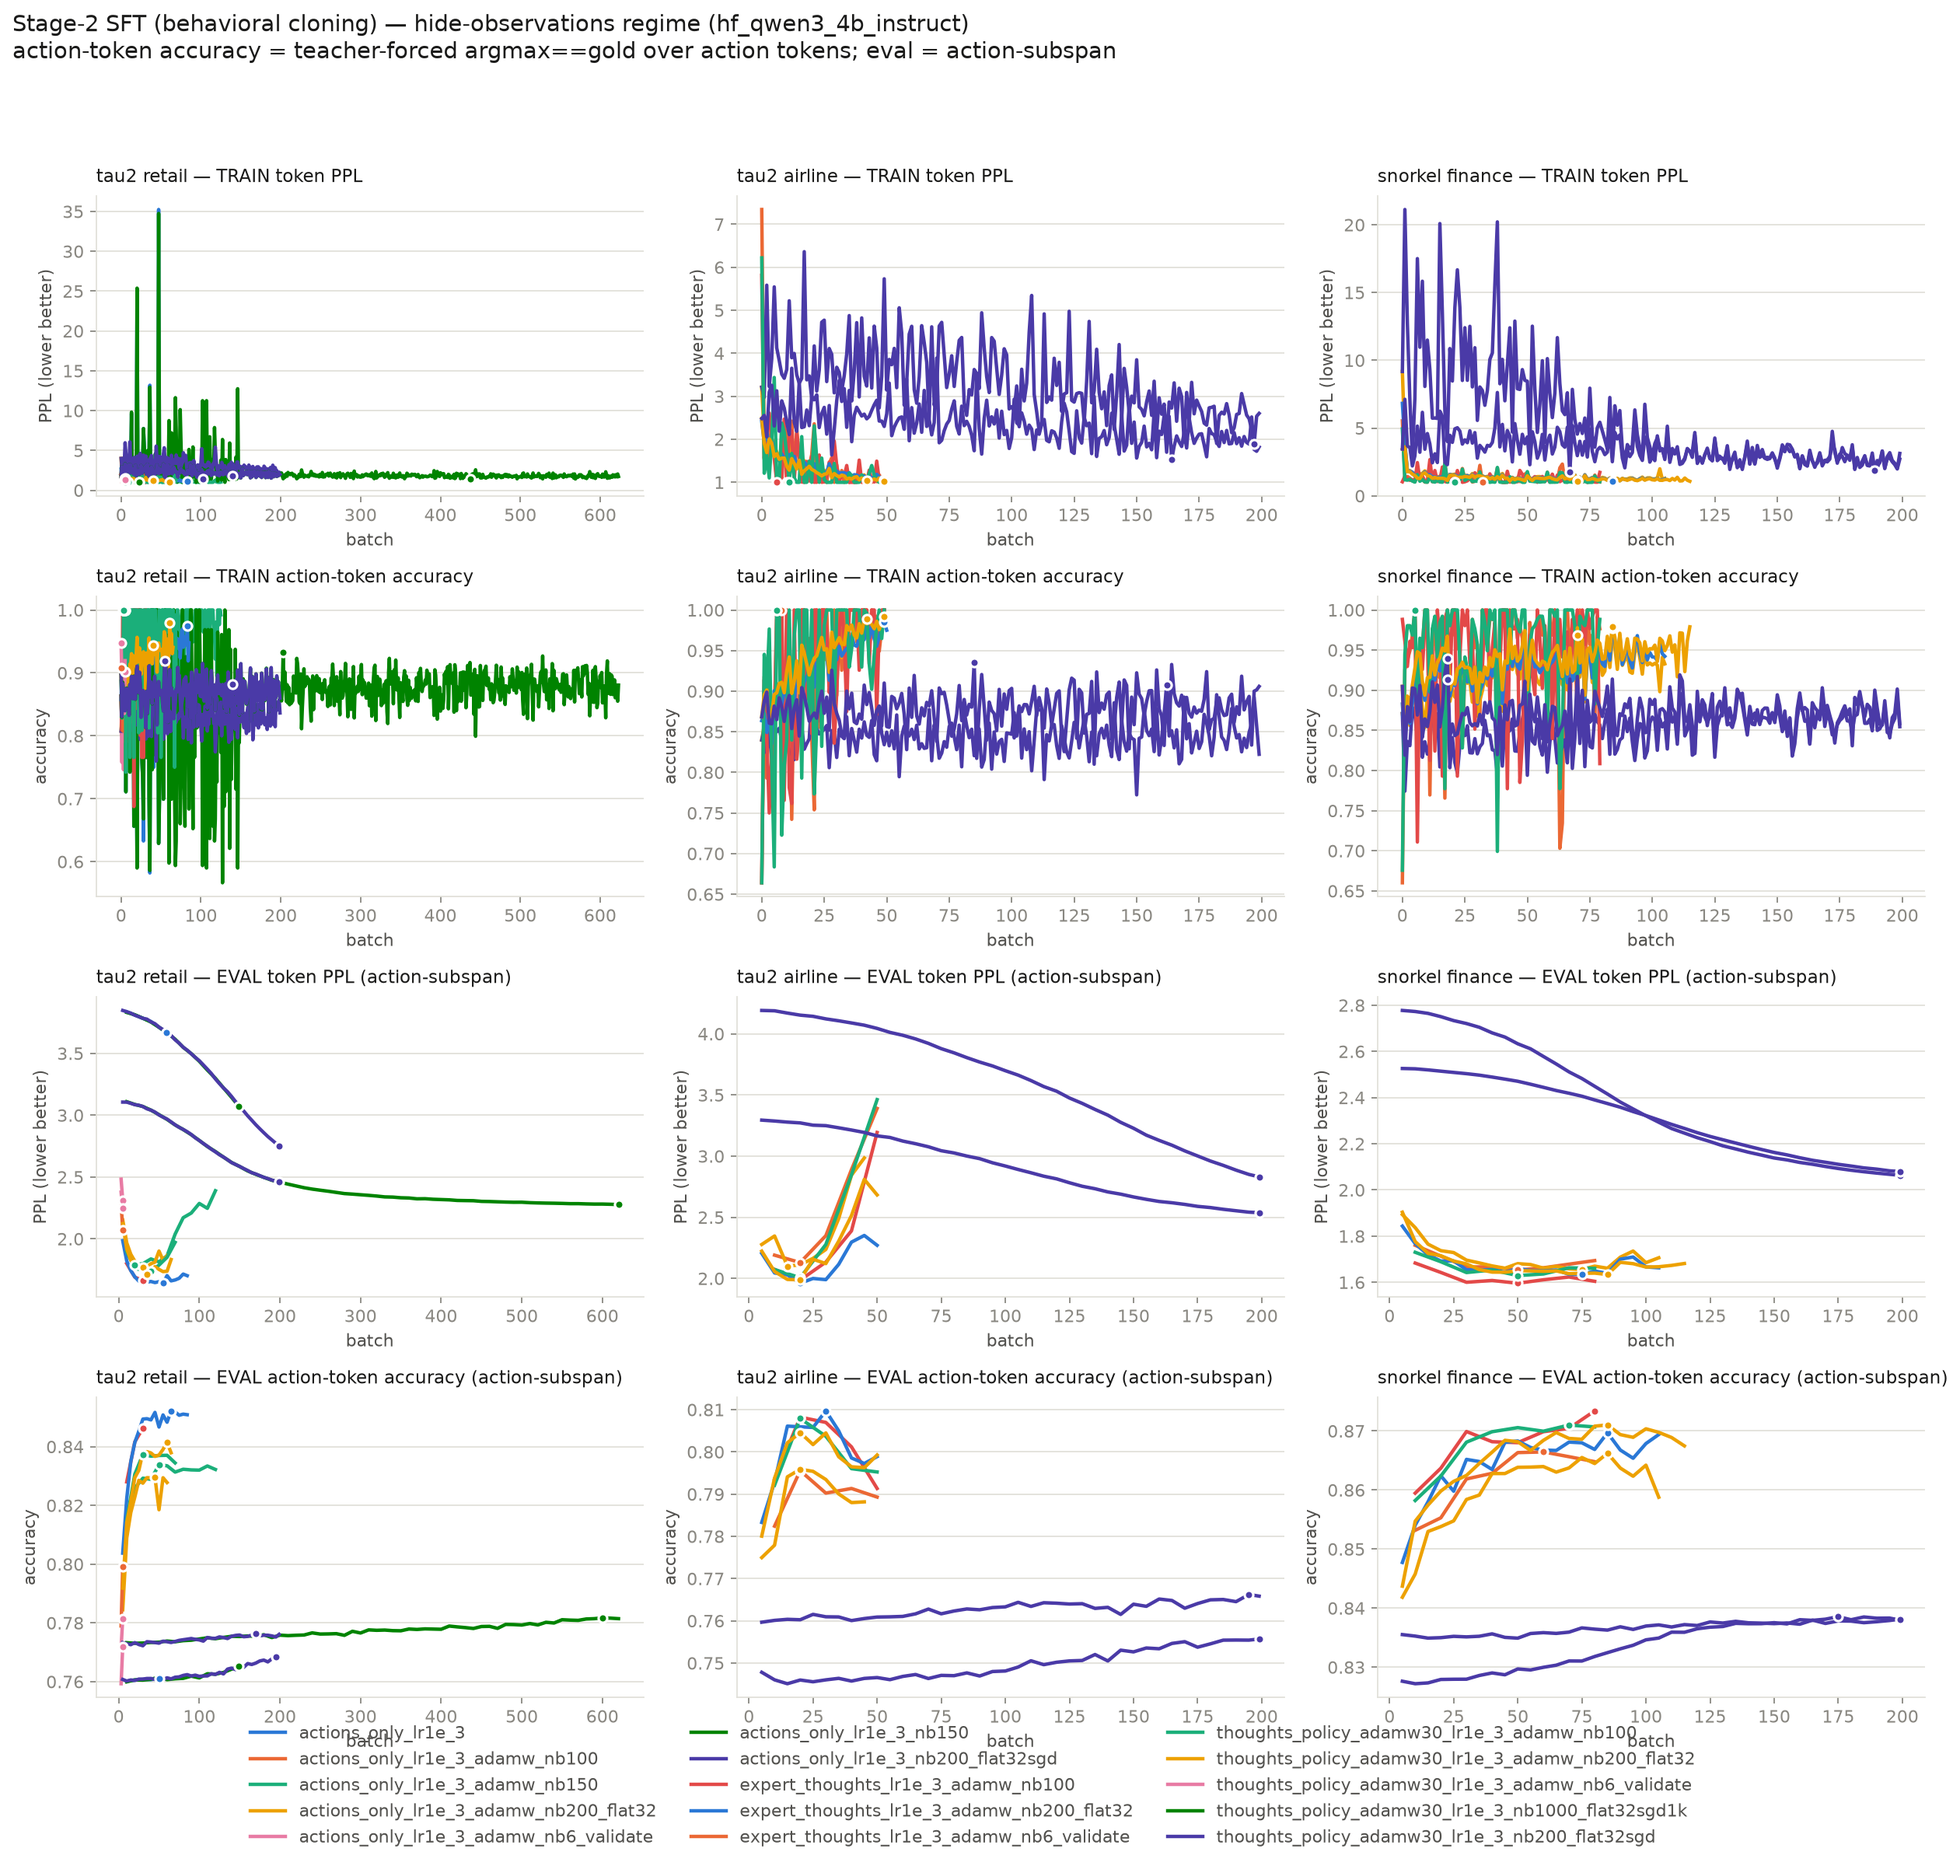
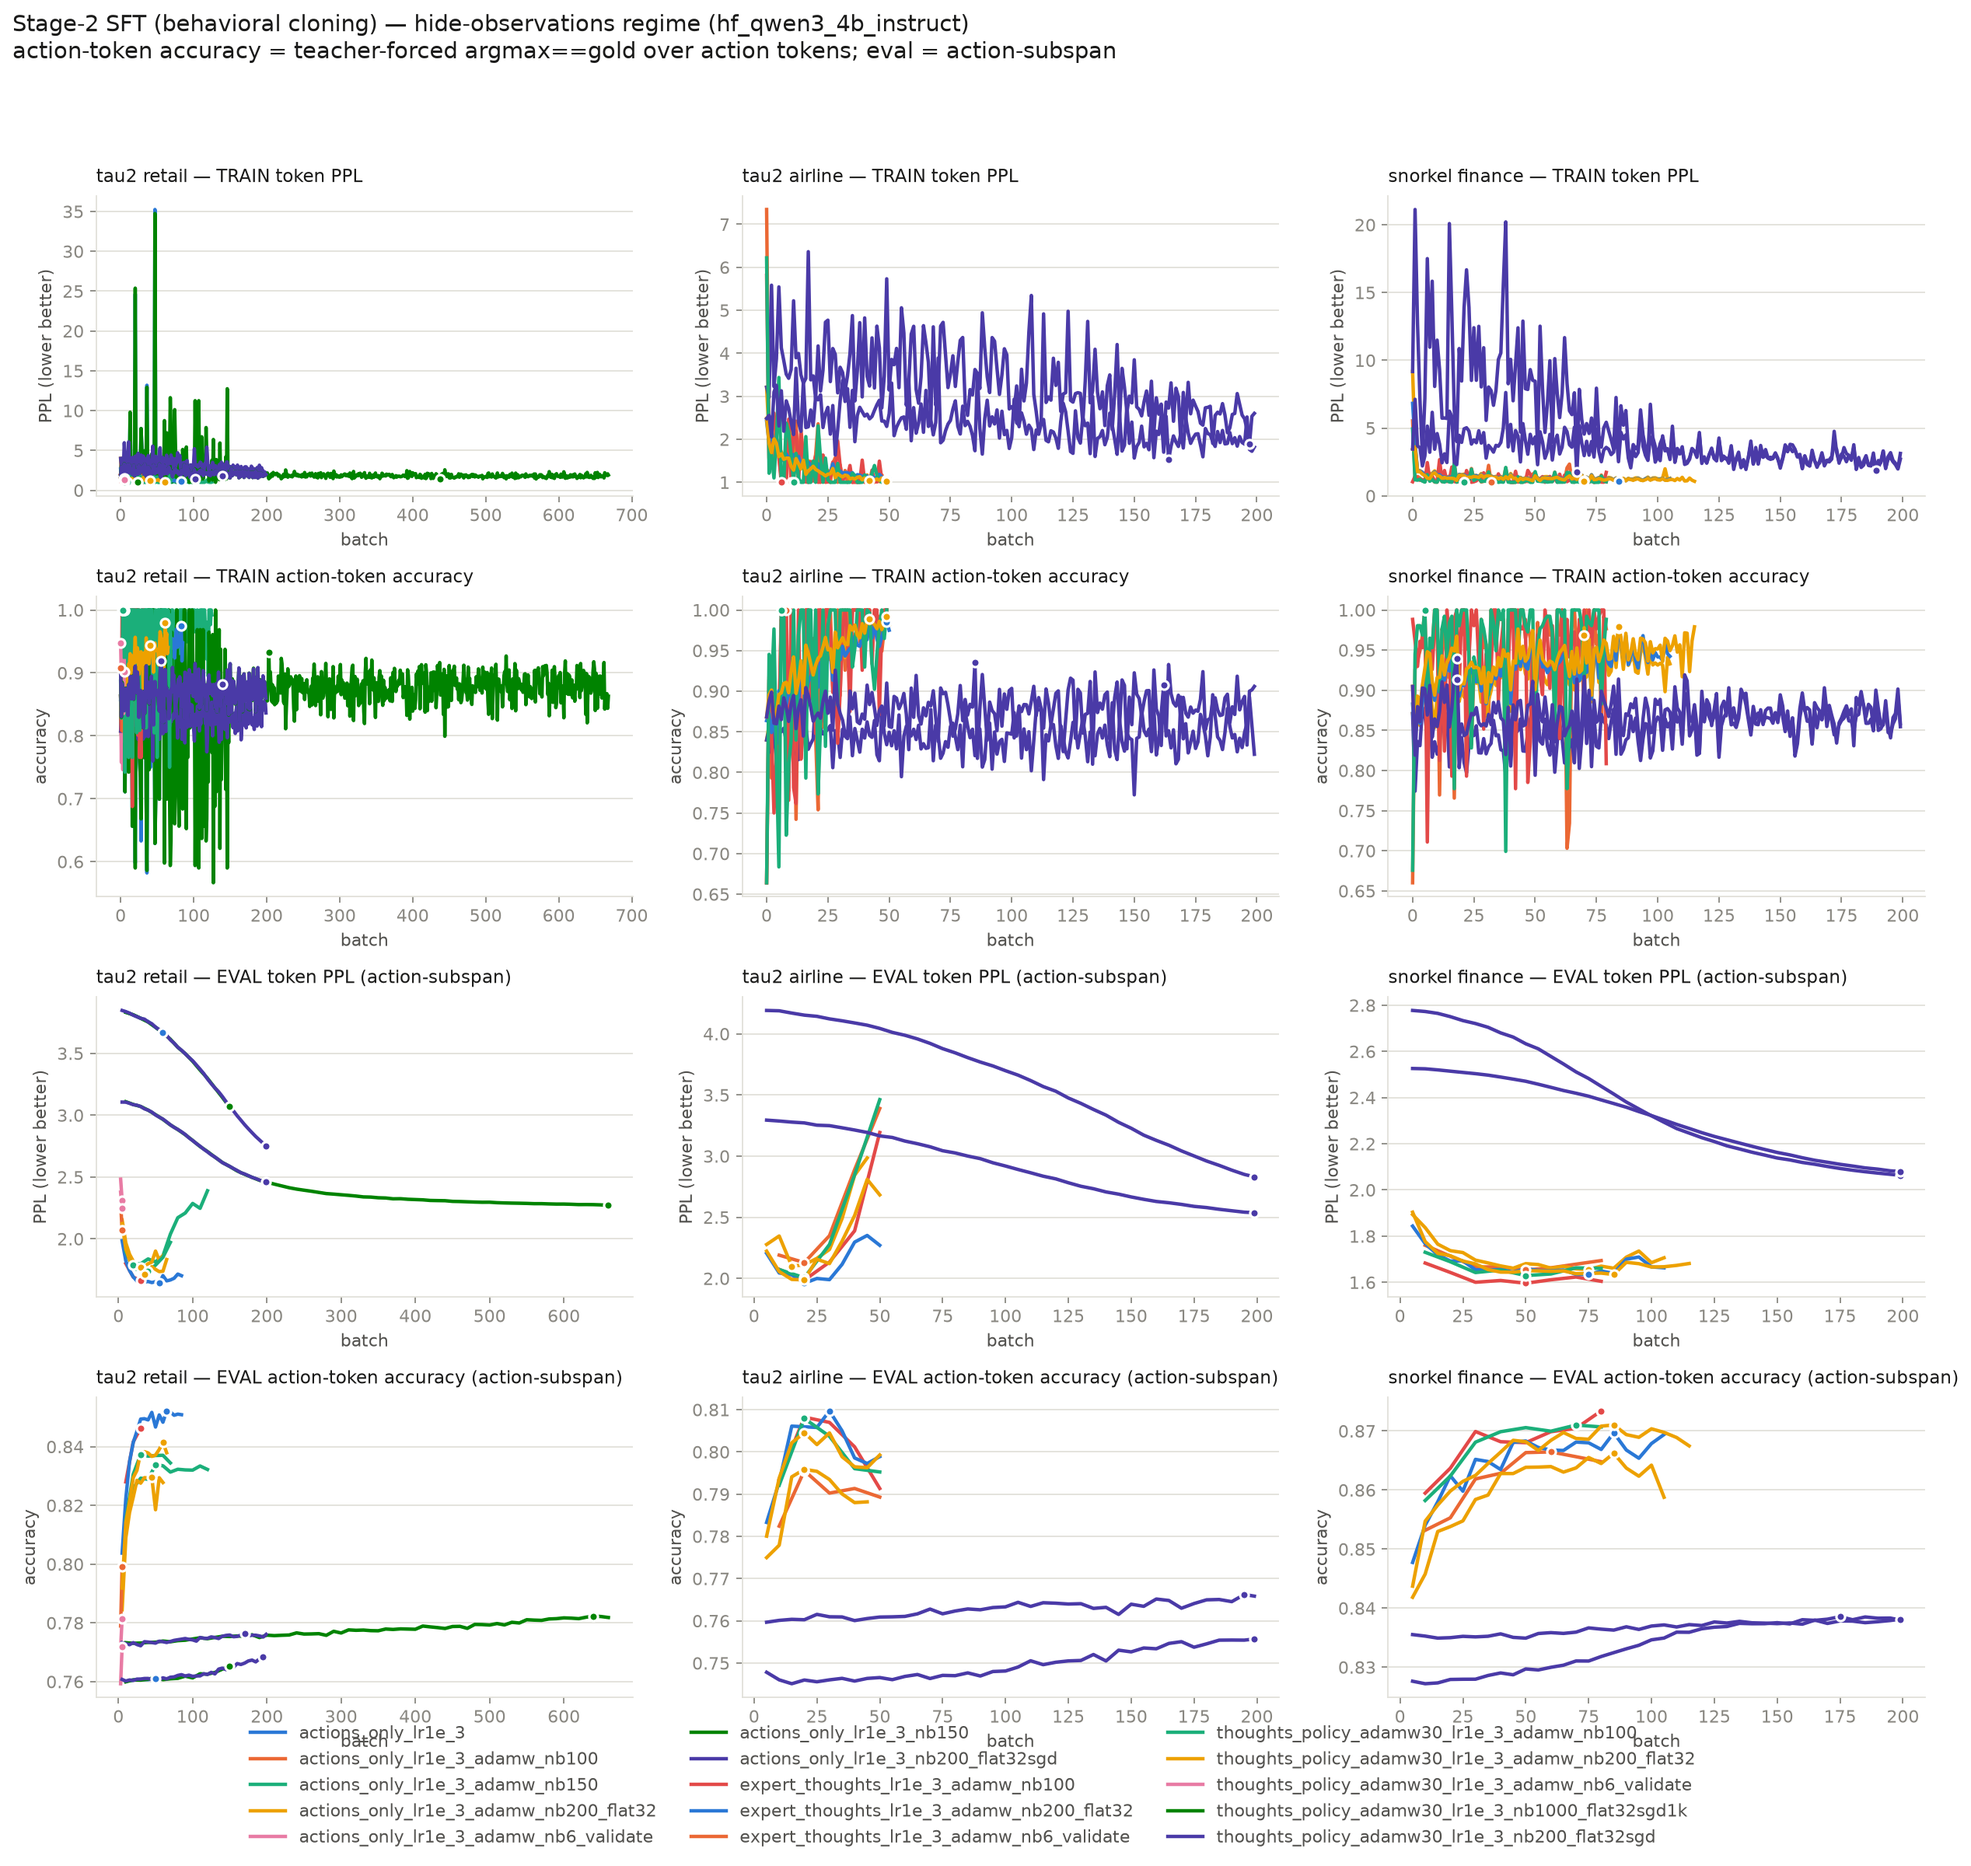
auto: SFT LR sweep results snapshot

diff --git a/notes/cc-5.0-sft-lr-investigation.md b/notes/cc-5.0-sft-lr-investigation.md
@@ -376,7 +376,7 @@ retail/expert_thoughts_lr1e_3_adamw_nb6_validate     hide    5     2.2879 ->   2
 retail/thoughts_policy_adamw30_lr1e_3_adamw_nb100    hide   70     1.8959 ->   1.9718  -4.00%  0.8345        1.3828  <running>
 retail/thoughts_policy_adamw30_lr1e_3_adamw_nb200_flat32 hide   65     2.1230 ->   1.8328  13.67%  0.8379        1.2222  <running>
 retail/thoughts_policy_adamw30_lr1e_3_adamw_nb6_validate hide    5     2.3775 ->   2.2449   5.57%  0.7814        1.3506
-retail/thoughts_policy_adamw30_lr1e_3_nb1000_flat32sgd1k hide  623     3.1089 ->   2.2771  26.76%  0.7814        1.7239  <running>
+retail/thoughts_policy_adamw30_lr1e_3_nb1000_flat32sgd1k hide  668     3.1089 ->   2.2700  26.98%  0.7818        1.9067  <running>
 retail/thoughts_policy_adamw30_lr1e_3_nb200_flat32sgd hide  199     3.1058 ->   2.4625  20.71%  0.7761        1.9910
 airline/actions_only_lr1e_3_adamw_nb100              hide   50     2.1901 ->   3.3899 -54.78%  0.7893        1.0000  <running>
 airline/actions_only_lr1e_3_adamw_nb200_flat32       hide   45     2.2776 ->   2.9850 -31.06%  0.7882        1.0679  <running>
@@ -397,7 +397,7 @@ snorkel_finance_split/thoughts_policy_adamw30_lr1e_3_nb200_flat32sgd hide  199  
 
 11/31 arms complete   (Δ% = held-out action-subspan PPL improvement, higher is better)
 ```
-_last refreshed: 2026-09-03 05:40_
+_last refreshed: 2026-09-03 06:00_
 <!--/RESULTS-->
 
 ## Infrastructure

diff --git a/notes/cc-3.0-retail_sft_results.md b/notes/cc-3.0-retail_sft_results.md
@@ -45,7 +45,7 @@ for wordiness rather than for mispredicting the action, which inverts the rankin
 | thoughts_policy_adamw30_lr1e_3_adamw_nb100 | hide | 1.7358 | 0.8368 | 40 | 1.9884 | 0.7917 | 20 | 0.3668 |
 | thoughts_policy_adamw30_lr1e_3_adamw_nb200_flat32 | hide | 1.7150 | 0.8383 | 35 | — | — | — | 0.2997 |
 | thoughts_policy_adamw30_lr1e_3_adamw_nb6_validate | hide | 2.2449 | 0.7814 | 5 | — | — | — | 0.6407 |
-| thoughts_policy_adamw30_lr1e_3_nb1000_flat32sgd1k | hide | 2.2771 | 0.7814 | 620 | — | — | — | 0.6874 |
+| thoughts_policy_adamw30_lr1e_3_nb1000_flat32sgd1k | hide | 2.2700 | 0.7818 | 660 | — | — | — | 0.7395 |
 | thoughts_policy_adamw30_lr1e_3_nb200_flat32sgd | hide | 2.4625 | 0.7761 | 199 | — | — | — | 0.8002 |
 | thoughts_policy_adamw30_lr1e_4_adamw_nb200_flat32 | hide | 1.7313 | 0.8393 | 140 | — | — | — | 0.2530 |
 | thoughts_policy_adamw30_lr3e_3_nb200_flat32sgd | hide | 2.2822 | 0.7809 | 199 | — | — | — | 0.6983 |
